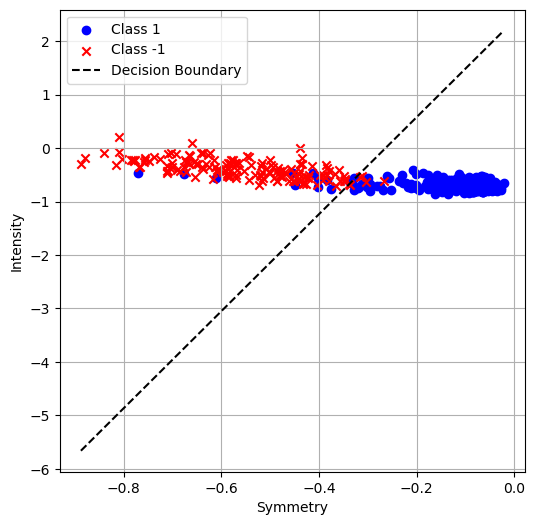
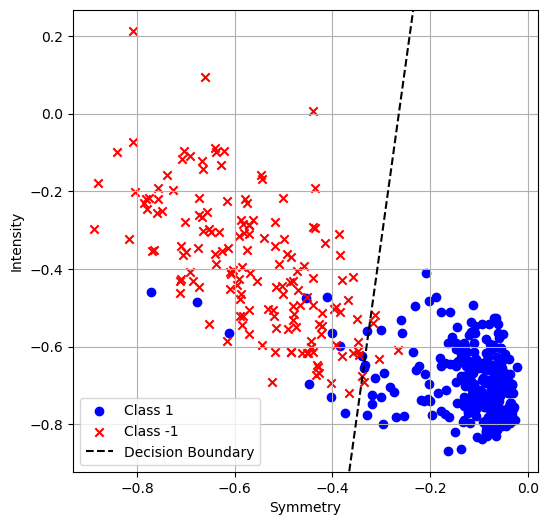
fix to line

diff --git a/solution.py b/solution.py
@@ -163,11 +163,14 @@ def show_result(X, y, W):
     # YOUR CODE HERE
     show_features(X, y, save=False)
     
-    x_values = np.linspace(min(X[:,0]), max(X[:,0]), 100)  # Generate x values
+    y_min, y_max = plt.ylim()
+    x_values = np.linspace(min(X[:,0]), max(X[:,0]), 100)
     y_values = (- (W[0] / W[2]) - (W[1] / W[2]) * x_values)
     
     plt.plot(x_values, y_values, 'k--', label="Decision Boundary")
     plt.legend()
+    plt.ylim(y_min, y_max)
+
     
     plt.savefig("result.png", bbox_inches='tight')
 
